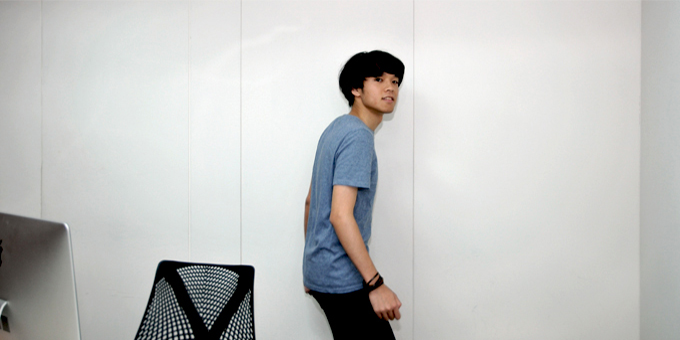
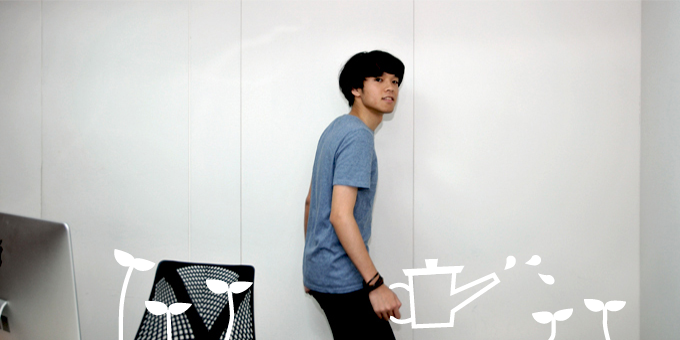
j :

diff --git a/public/index.html b/public/index.html
@@ -31,29 +31,22 @@
       <li data-target="#top-carousel" data-slide-to="1"></li>
       <li data-target="#top-carousel" data-slide-to="2"></li>
       <li data-target="#top-carousel" data-slide-to="3"></li>
-      <li data-target="#top-carousel" data-slide-to="4"></li>
-      <li data-target="#top-carousel" data-slide-to="5"></li>
     </ol>
 
     <div class="carousel-inner">
       <div class="active item" id="carousel-1">
-        <img src="/images/home/top1.jpg"></img>
+        <img src="/images/home/top1.png"></img>
       </div>
       <div class="item" id="carousel-2">
-        <img src="/images/home/top2.jpg"></img>
+        <img src="/images/home/top2.png"></img>
       </div>
       <div class="item" id="carousel-3">
-        <img src="/images/home/top3.jpg"></img>
+        <img src="/images/home/top3.png"></img>
       </div>
       <div class="item" id="carousel-4">
-        <img src="/images/home/top4.jpg"></img>
+        <img src="/images/home/top4.png"></img>
       </div>
-      <div class="item" id="carousel-5">
-        <img src="/images/home/top5.jpg"></img>
-      </div>
-      <div class="item" id="carousel-6">
-        <img src="/images/home/top6.jpg"></img>
-      </div>
+     
     </div>
 
     <!--
@@ -89,11 +82,19 @@
       <h1>ABOUT 6x2</h1>  
       <div class="story">
         <div class="story-left">
-          <p>　　六乘二源自於法國新浪潮的代表導演Jean-Luc Godard所拍攝的電視錄像藝術作品Six fois deux (6x2, 1977)。這部作品描繪了Jean-Luc Godard與Anne-Marie Miéville 兩人之間的六個情節，由於深受馬克主義與存在主義的影響，Jean-Luc Godard創作了一系列錄像藝術作品；儘管創作理念與拍攝手法不盡相同，然而渴望傳遞理念卻十分一致，這些作品並非強調表現單一時期或是單件作品，它描繪的是一種持續且直接的「存在方式」。品牌核心的理念就如同Jean-Luc Godard的「存在方式」，我們追求理性與感性的平衡，永續與階段的共存。</p>
-          <p>六個步驟・兩個面向，請讓我們為您打造品牌最獨特的存在方式。</p> 
+          <p>6x2為品牌管理微笑方程式。<br/> 
+             6x2為企業量身訂做品牌策略以執行創意，六個步驟、二個面向。<br/>
+             理性管理 × 感性美學，創造品牌最大價值。<br/><br/>
+
+             6x2品牌管理導入組織的品牌經營，建立企業文化與品牌形象，<br/>
+             以發揮品牌綜效，成為長期的策略夥伴，。<br/></p>
         </div>
         <div class="story-right">
-          description
+          <p>6x2 BM is a well-trained, strategically-oriented group<br/>
+             of creative marketing professionals.<br/><br/><br/>
+
+             We quickly assess our clients’ marketing objectives,<br/>
+             create a strategic plan, recommend tactics, produce quality creative.<br/></p>
         </div>
       </div>
 
@@ -396,7 +397,7 @@
           </div>
 
 <!-- tab6 -->
-          <div class="tab-pane" id="thinking-tab5">
+          <div class="tab-pane" id="thinking-tab6">
             <div class="pic-large"><img src="/images/thinking/TL6.png"></div>
             <div class="pic-description">
               <div class="pic-description-top">
@@ -421,15 +422,13 @@
           
 
         </div>
-        <div class="orange-line"></div>
-
         <div class="tabs">
-          <a tab-id="thinking-tab1" class="tab pic-small"><img src="/images/thinking/TS1.png"></a>
-          <a tab-id="thinking-tab2" class="tab pic-small"><img src="/images/thinking/TS2.png"></a>
-          <a tab-id="thinking-tab3" class="tab pic-small"><img src="/images/thinking/TS3.png"></a>
-          <a tab-id="thinking-tab4" class="tab pic-small"><img src="/images/thinking/TS4.png"></a>
-          <a tab-id="thinking-tab5" class="tab pic-small"><img src="/images/thinking/TS5.png"></a>
-          <a tab-id="thinking-tab6" class="tab pic-small"><img src="/images/thinking/TS6.png"></a>
+          <div class="tab pic-small" tab-id="thinking-tab1"></div>
+          <div class="tab pic-small" tab-id="thinking-tab2"></div>
+          <div class="tab pic-small" tab-id="thinking-tab3"></div>
+          <div class="tab pic-small" tab-id="thinking-tab4"></div>
+          <div class="tab pic-small" tab-id="thinking-tab5"></div>
+          <div class="tab pic-small" tab-id="thinking-tab6"></div>
         </div>
 
       </div>

diff --git a/public/css/index.css b/public/css/index.css
@@ -130,16 +130,20 @@ section > .well {
   margin: 0 auto 16px auto;
 }
 #about .story .story-left {
-  width: 680px;
+  width: 340px;
   vertical-align: top;
   display: inline-block;
-  margin-right: -24px;
+  margin-right: -30px;
+  line-height: 16px;
+  font-size: 10px;
 }
 #about .story .story-right {
-  width: 320px;
+  width: 340px;
   vertical-align: top;
   display: inline-block;
   margin-left: 40px;
+  line-height: 16px;
+  font-size: 10px;
 }
 #about-tabbable {
   width: 1020px;
@@ -264,6 +268,47 @@ section > .well {
   cursor: pointer;
 }
 
+#thinking [tab-id="thinking-tab1"] {
+  background-image: url(/images/thinking/TS1.png);
+}
+#thinking [tab-id="thinking-tab1"]:hover {
+  background-image: url(/images/thinking/TS1h.png);
+}
+
+#thinking [tab-id="thinking-tab2"] {
+  background-image: url(/images/thinking/TS2.png);
+}
+#thinking [tab-id="thinking-tab2"]:hover {
+  background-image: url(/images/thinking/TS2h.png);
+}
+
+#thinking [tab-id="thinking-tab3"] {
+  background-image: url(/images/thinking/TS3.png);
+}
+#thinking [tab-id="thinking-tab3"]:hover {
+  background-image: url(/images/thinking/TS3h.png);
+}
+
+#thinking [tab-id="thinking-tab4"] {
+  background-image: url(/images/thinking/TS4.png);
+}
+#thinking [tab-id="thinking-tab4"]:hover {
+  background-image: url(/images/thinking/TS4h.png);
+}
+
+#thinking [tab-id="thinking-tab5"] {
+  background-image: url(/images/thinking/TS5.png);
+}
+#thinking [tab-id="thinking-tab5"]:hover {
+  background-image: url(/images/thinking/TS5h.png);
+}
+
+#thinking [tab-id="thinking-tab6"] {
+  background-image: url(/images/thinking/TS6.png);
+}
+#thinking [tab-id="thinking-tab6"]:hover {
+  background-image: url(/images/thinking/TS6h.png);
+}
 
 /*.orange-line {
   width: 1020px;
